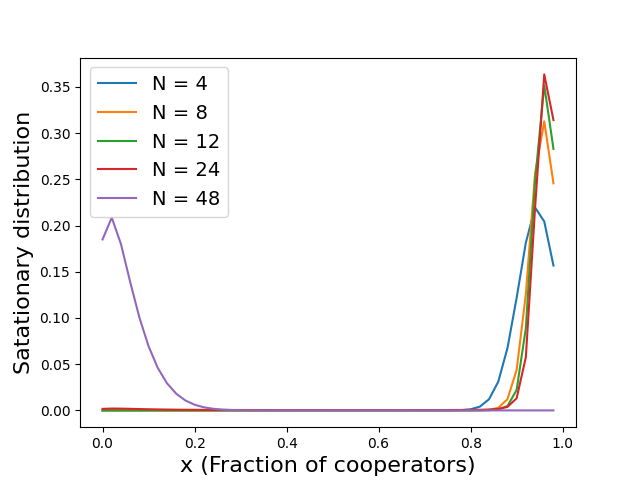
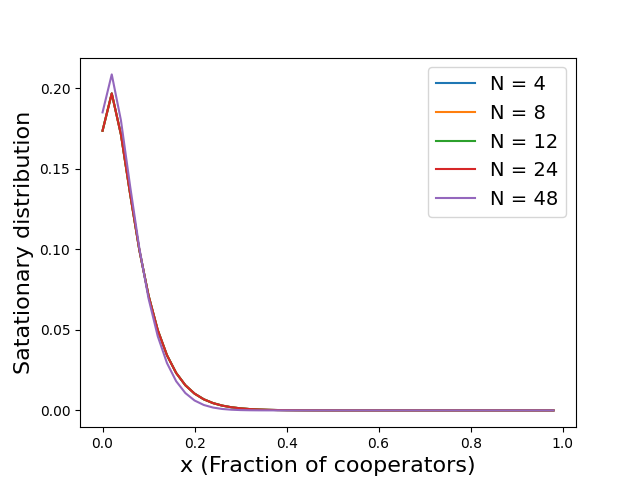
Já Percebi o Problema com o PD (foi estupidez minha), já Corrigi no Latex também

diff --git a/main.py b/main.py
@@ -210,7 +210,6 @@ def fitness_delta(x, risk, game, N, M, k, pop_type=INFINITE_WELL_MIXED, Z=50):
 
     Risk of collective failure provides an escape from the tragedy of the commons,
     Francisco C. Santos, Jorge M. Pacheco"""
-    print("game and pop type", game, pop_type)
     if pop_type == INFINITE_WELL_MIXED and game == "SH":
         return fitness_delta_infinite_well_mixed(x, risk, N, M, game = game)
     else:
@@ -226,7 +225,7 @@ def payoffD(k, M, r, game = "SH"):
         # I adapt from the paper: considering risk for all if M < N is not met
         return b * (theta(k - M) + (1 - r) * (1 - theta(k - M)))
     elif game == "PD":
-        return b * (theta(k - M))
+        return b 
 
 
 def payoffC(k, M, r, game = "SH"):
@@ -269,7 +268,6 @@ def fitness_infinite_well_mixed(x, risk, N, M, k, game = "SH"):
         mult = (x ** k) * ((1 - x) ** (N - 1 - k))
         fC += binomial * mult * piC
         fD += binomial * mult * piD
-
     return fC, fD
 
 
@@ -315,13 +313,6 @@ def fitness_finite_well_mixed(Z, risk, N, M, k, game = "SH"):
     for j in range(min(N, k)):
         piD = payoffD(j, M, risk, game = game)
         piC = payoffC(j, M, risk, game = game)
-        # print("")
-        # print("Z =", Z)
-        # print("k =", k)
-        # print("N =", N)
-        # print("j =", j)
-        # print("Z - k - 1=", Z - k - 1)
-        # print("N - j - 1 =", N - j - 1)
         binomialC = math.comb(k - 1, j) * math.comb(Z - k, N - j - 1)
         binomialD = math.comb(k, j) * math.comb(Z - k - 1, N - j - 1)
         fC += binomialC * piD
@@ -775,17 +766,17 @@ def evolution_stationary_distribution_with_x(game = 'SH', mode = "N=6"):
 
 #evolution_k_with_Z(model = "COMPLETE") #not in the paper, just for visualization
 
-# for game in games_list:
-#     evolution_gradient_of_selection_with_x(game = game, mode = "N=6") #1A, infinite population
-#     evolution_stationary_distribution_with_x(game = game, mode = "N=6") #1C, finite pop.
-#     evolution_stationary_distribution_with_x(game = game, mode = "M=2") #2A, finite pop.
-#     evolution_stationary_distribution_with_x(game = game, mode = "N/M=2") #2B, finite pop.
+for game in games_list:
+    evolution_gradient_of_selection_with_x(game = game, mode = "N=6") #1A, infinite population
+    evolution_stationary_distribution_with_x(game = game, mode = "N=6") #1C, finite pop.
+    evolution_stationary_distribution_with_x(game = game, mode = "M=2") #2A, finite pop.
+    evolution_stationary_distribution_with_x(game = game, mode = "N/M=2") #2B, finite pop.
 
-# for game in games_list[1:-1]:
-#     evolution_gamma_with_gradient_of_selection(game = game, mode = "N=6") #1B, infinite population
-#     evolution_gamma_with_gradient_of_selection(game = game, mode = "M=2") #2C, finite pop.
-#     evolution_gamma_with_gradient_of_selection(game = game, mode = "N/M=2") #2D, finite pop.
+for game in games_list[1:-1]:
+    evolution_gamma_with_gradient_of_selection(game = game, mode = "N=6") #1B, infinite population
+    evolution_gamma_with_gradient_of_selection(game = game, mode = "M=2") #2C, finite pop.
+    evolution_gamma_with_gradient_of_selection(game = game, mode = "N/M=2") #2D, finite pop.
 
-get_all_internal_roots(mode = "N=6", game = "SH")
-get_all_internal_roots(mode = "M=2", game = "SH") 
-get_all_internal_roots(mode = "N/M=2", game = "SH")
+# get_all_internal_roots(mode = "N=6", game = "SH")
+# get_all_internal_roots(mode = "M=2", game = "SH") 
+# get_all_internal_roots(mode = "N/M=2", game = "SH")
